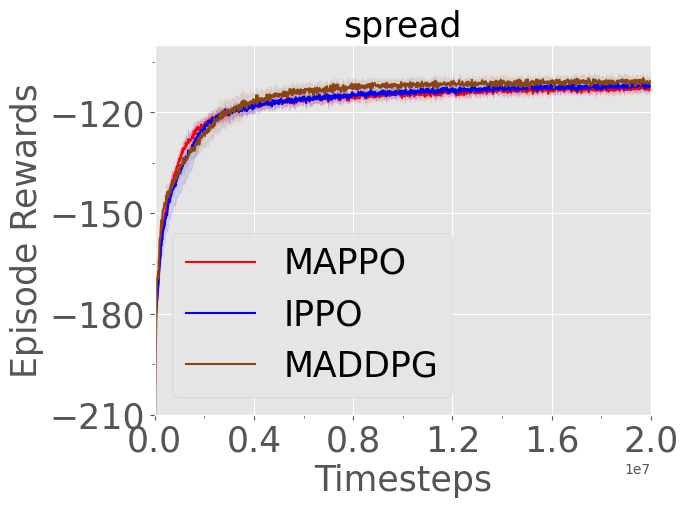
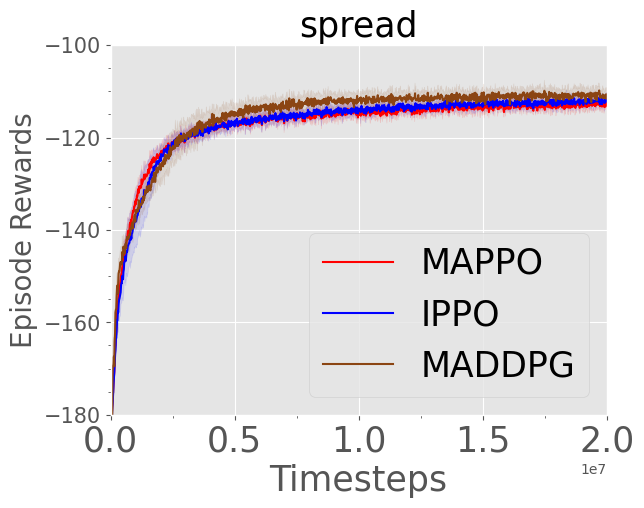
finish write script finallygit add .!

diff --git a/onpolicy/scripts/plot/cal_winrate.py b/onpolicy/scripts/plot/cal_winrate.py
@@ -11,9 +11,17 @@ def moving_average(interval, windowsize):
     re = np.convolve(interval, window, 'same')
     return re
 
-map_names = ['2s_vs_1sc','2s3z','3m','3s_vs_3z','3s_vs_4z','2m_vs_1z','MMM','so_many_baneling',\
-'5m_vs_6m','3s5z','1c3s5z','8m','27m_vs_30m','25m','bane_vs_bane','3s_vs_5z','6h_vs_8z',\
-'corridor','3s5z_vs_3s6z','10m_vs_11m','8m_vs_9m','MMM2','2c_vs_64zg']
+# map_names = ['2s_vs_1sc','2s3z','3m','3s_vs_3z','3s_vs_4z','2m_vs_1z','MMM','so_many_baneling',\
+# '5m_vs_6m','3s5z','1c3s5z','8m','27m_vs_30m','25m','bane_vs_bane','3s_vs_5z','6h_vs_8z',\
+# 'corridor','3s5z_vs_3s6z','10m_vs_11m','8m_vs_9m','MMM2','2c_vs_64zg']
+
+easy_maps = ["2m_vs_1z", "3m", "2s_vs_1sc", "2s3z", "3s_vs_3z", "3s_vs_4z", "so_many_baneling", "8m", "MMM", "1c3s5z", "bane_vs_bane"]
+hard_maps = ["3s_vs_5z", "2c_vs_64zg", "8m_vs_9m", "25m", "5m_vs_6m", "3s5z", "10m_vs_11m"]
+super_hard_maps = ["MMM2", "3s5z_vs_3s6z", "27m_vs_30m", "6h_vs_8z", "corridor"]
+
+map_names = easy_maps + hard_maps + super_hard_maps
+difficulties = len(easy_maps) * ["Easy"] + len(hard_maps) * ["Hard"] + len(super_hard_maps) * ["Super_Hard"]
+rode_scores = ["/", "/", "/", "100(0.0)", "/", "/", "/", "/", "/", "100(0.0)", "100(46.4)", "78.9(4.2)", "100(0.0)", "/", "/", "71.1(9.2)", "93.75(1.95)", "95.3(2.2)", "89.8(6.7)", "96.8(25.11)", "96.8(1.5)", "78.1(37.0)", "65.6(32.1)"]
 
 all_final_max_step = []
 for map_name in map_names:
@@ -185,15 +193,15 @@ for map_name in map_names:
 
 #################################CAL#####################################
 
-median_value = []
-std_value = []
+results = []
 for map_name, final_max_step in zip(map_names, all_final_max_step):
     print("########################MAP##########################")
     print(map_name)
     ###################################PPO###################################
     exp_names = ['final_mappo', 'final_ippo']
 
-    max_steps = []
+    median_value = []
+    std_value = []
     for exp_name in exp_names:
         print(exp_name)
         data_dir =  './' + map_name + '/' + map_name + '_' + exp_name + '.csv'
@@ -216,7 +224,6 @@ for map_name, final_max_step in zip(map_names, all_final_max_step):
         if "ppo" in exp_name and max_step < 4.96e6:
             print("error: broken data! double check!")
             print("drop one run!")
-            continue
 
         df_final = df_final.loc[df_final['Step'] <= final_max_step] 
 
@@ -227,10 +234,8 @@ for map_name, final_max_step in zip(map_names, all_final_max_step):
 
         median_seed = np.median(np.median(y_seed_last, axis=0))
         std_seed = np.std(np.median(y_seed_last, axis=0))
-        print(median_seed, std_seed)
+        median_value.append(str(format(median_seed*100, '.1f')) + "(" + str(format(std_seed*100, '.1f')) + ")")
 
-        median_value.append(median_seed)
-        std_value.append(std_seed)
    
     exp_name = 'final_qmix'
     data_dir =  './' + map_name + '/' + map_name + '_' + exp_name + '.csv'
@@ -281,9 +286,108 @@ for map_name, final_max_step in zip(map_names, all_final_max_step):
             raise NotImplementedError
 
     median_seed = np.median(np.median(np.array(sample_qmix_y_seed), axis=0))
-    std_seed = np.std(np.median(np.array(sample_qmix_y_seed), axis=0))
-    print(median_seed, std_seed)
-    median_value.append(median_seed)
-    std_value.append(std_seed)
+    std_seed = np.std(np.median(np.array(sample_qmix_y_seed), axis=0))    
+    median_value.append(str(format(median_seed*100, '.1f')) + "(" + str(format(std_seed*100, '.1f')) + ")")
 
-    df = pd.DataFrame()
+
+    if map_name in ["27m_vs_30m","corridor","6h_vs_8z","3s5z_vs_3s6z"]:
+        cut_max_step = 5e6
+    else:
+        cut_max_step = 2e6
+    print("########################MAP##########################")
+    print(map_name)
+    ###################################PPO###################################
+    exp_names = ['final_mappo']
+
+    for exp_name in exp_names:
+        print(exp_name)
+        data_dir =  './' + map_name + '/' + map_name + '_' + exp_name + '.csv'
+
+        df = pandas.read_csv(data_dir)
+        
+        key_cols = [c for c in df.columns if 'MIN' not in c and 'MAX' not in c]
+        key_step = [n for n in key_cols if n == 'Step']
+        key_win_rate = [n for n in key_cols if n != 'Step']
+
+        all_step = np.array(df[key_step])
+        all_win_rate = np.array(df[key_win_rate])
+
+        df_final = df[key_cols].dropna()
+        step = df_final[key_step]
+        win_rate = df_final[key_win_rate]
+
+        max_step = step.max()['Step']
+
+        if "ppo" in exp_name and max_step < 4.96e6:
+            print("error: broken data! double check!")
+            print("drop one run!")
+
+        df_final = df_final.loc[df_final['Step'] <= cut_max_step] 
+
+        x_step = np.array(df_final[key_step]).squeeze(-1)
+        y_seed = np.array(df_final[key_win_rate])
+
+        y_seed_last = np.array(y_seed)[-5:]
+
+        median_seed = np.median(np.median(y_seed_last, axis=0))
+        std_seed = np.std(np.median(y_seed_last, axis=0))
+        median_value.append(str(format(median_seed*100, '.1f')) + "(" + str(format(std_seed*100, '.1f')) + ")")
+
+   
+    exp_name = 'final_qmix'
+    data_dir =  './' + map_name + '/' + map_name + '_' + exp_name + '.csv'
+
+    df = pandas.read_csv(data_dir)
+
+    key_cols = [c for c in df.columns if 'MIN' not in c and 'MAX' not in c]
+    key_step = [n for n in key_cols if n == 'Step']
+    key_win_rate = [n for n in key_cols if n != 'Step']
+
+    qmix_x_step = []
+    qmix_y_seed = []
+    for k in key_win_rate:
+
+        df_final = df[[k, 'Step']].dropna()
+        step = df_final[key_step]
+        win_rate = df_final[k]
+
+        max_step = step.max()['Step']
+
+        if max_step < 2e6:
+            print("error: broken data! double check!")
+            print("drop qmix run!")
+            continue
+
+        df_final = df_final.loc[df_final['Step'] <= cut_max_step] 
+        qmix_x_step.append(np.array(df_final[key_step]).squeeze(-1))
+        qmix_y_seed.append(np.array(df_final[k]))
+
+    # adapt sample frequency
+    sample_qmix_y_seed = []
+    for x, y in zip(qmix_x_step, qmix_y_seed):
+        eval_interval = x[10] - x[9]
+        if eval_interval - 10000 < 5000: # eval_interval = 10000
+            print("warning: better not to use mixed data, try to one eval_interval")
+            print(map_name)
+            print(eval_interval)
+            sample_qmix_y_seed.append(y[::8][-5:])
+        elif eval_interval - 20000 < 5000: # eval_interval = 20000
+            sample_qmix_y_seed.append(y[::4][-5:])
+        elif eval_interval - 80000 < 5000: # eval_interval = 80000
+            print("warning: better not to use mixed data, try to one eval_interval")
+            if map_name not in ["25m","27m_vs_30m","bane_vs_bane"]:
+                print(map_name)
+                print(eval_interval)
+            sample_qmix_y_seed.append(y[-5:])
+        else:
+            raise NotImplementedError
+
+    median_seed = np.median(np.median(np.array(sample_qmix_y_seed), axis=0))
+    std_seed = np.std(np.median(np.array(sample_qmix_y_seed), axis=0))    
+    median_value.append(str(format(median_seed*100, '.1f')) + "(" + str(format(std_seed*100, '.1f')) + ")")
+    results.append(np.array(median_value))
+
+results = np.array(results)
+print(results)
+df = pandas.DataFrame({'Map': np.array(map_names), "Map Difficulty": np.array(difficulties), 'MAPPO': results[:,0], 'IPPO': results[:,1], 'QMIX': results[:,2], 'RODE': np.array(rode_scores), 'MAPPO-c': results[:,3], 'QMIX-c': results[:,4]})
+print(df.to_latex(index=False))

diff --git a/onpolicy/scripts/plot/plot_mpe.py b/onpolicy/scripts/plot/plot_mpe.py
@@ -172,19 +172,24 @@ for map_name in map_names:
     plt.tick_params(axis='both',which='major') 
     final_max_step = np.min(max_steps)
     print("final max step is {}".format(final_max_step))
-    x_major_locator = MultipleLocator(int(final_max_step/5))
-    x_minor_Locator = MultipleLocator(int(final_max_step/10)) 
     if map_name == "spread": 
-        y_major_locator = MultipleLocator(30)
-        y_minor_Locator = MultipleLocator(15)
-        plt.ylim(-210, -100)
-    elif map_name == "speaker_listener":
+        x_major_locator = MultipleLocator(int(final_max_step/4))
+        x_minor_Locator = MultipleLocator(int(final_max_step/8)) 
         y_major_locator = MultipleLocator(20)
-        y_minor_Locator = MultipleLocator(10)
-    else:
-        y_major_locator = MultipleLocator(10)
         y_minor_Locator = MultipleLocator(5)
-        plt.ylim(-40, 0)
+        plt.ylim(-180, -100)
+    elif map_name == "speaker_listener":
+        x_major_locator = MultipleLocator(int(final_max_step/4))
+        x_minor_Locator = MultipleLocator(int(final_max_step/8)) 
+        y_major_locator = MultipleLocator(20)
+        y_minor_Locator = MultipleLocator(5)
+        plt.ylim(-80, -5)
+    else:
+        x_major_locator = MultipleLocator(int(final_max_step/4))
+        x_minor_Locator = MultipleLocator(int(final_max_step/4)) 
+        y_major_locator = MultipleLocator(10)
+        y_minor_Locator = MultipleLocator(2)
+        plt.ylim(-40, -5)
     ax=plt.gca()
     ax.xaxis.set_major_locator(x_major_locator)
     ax.yaxis.set_major_locator(y_major_locator)
@@ -194,10 +199,10 @@ for map_name in map_names:
     #ax.xaxis.grid(True, which='minor')
     plt.xlim(0, final_max_step)
     plt.xticks(fontsize=25)
-    plt.yticks(fontsize=25)
+    plt.yticks(fontsize=15)
 
     plt.xlabel('Timesteps', fontsize=25)
-    plt.ylabel('Episode Rewards', fontsize=25)
+    plt.ylabel('Episode Rewards', fontsize=20)
     plt.legend(loc='best', numpoints=1, fancybox=True, fontsize=25)
     plt.title(map_name,fontsize=25)
     plt.savefig(save_dir + map_name + "_episode_rewards.png", bbox_inches="tight")
